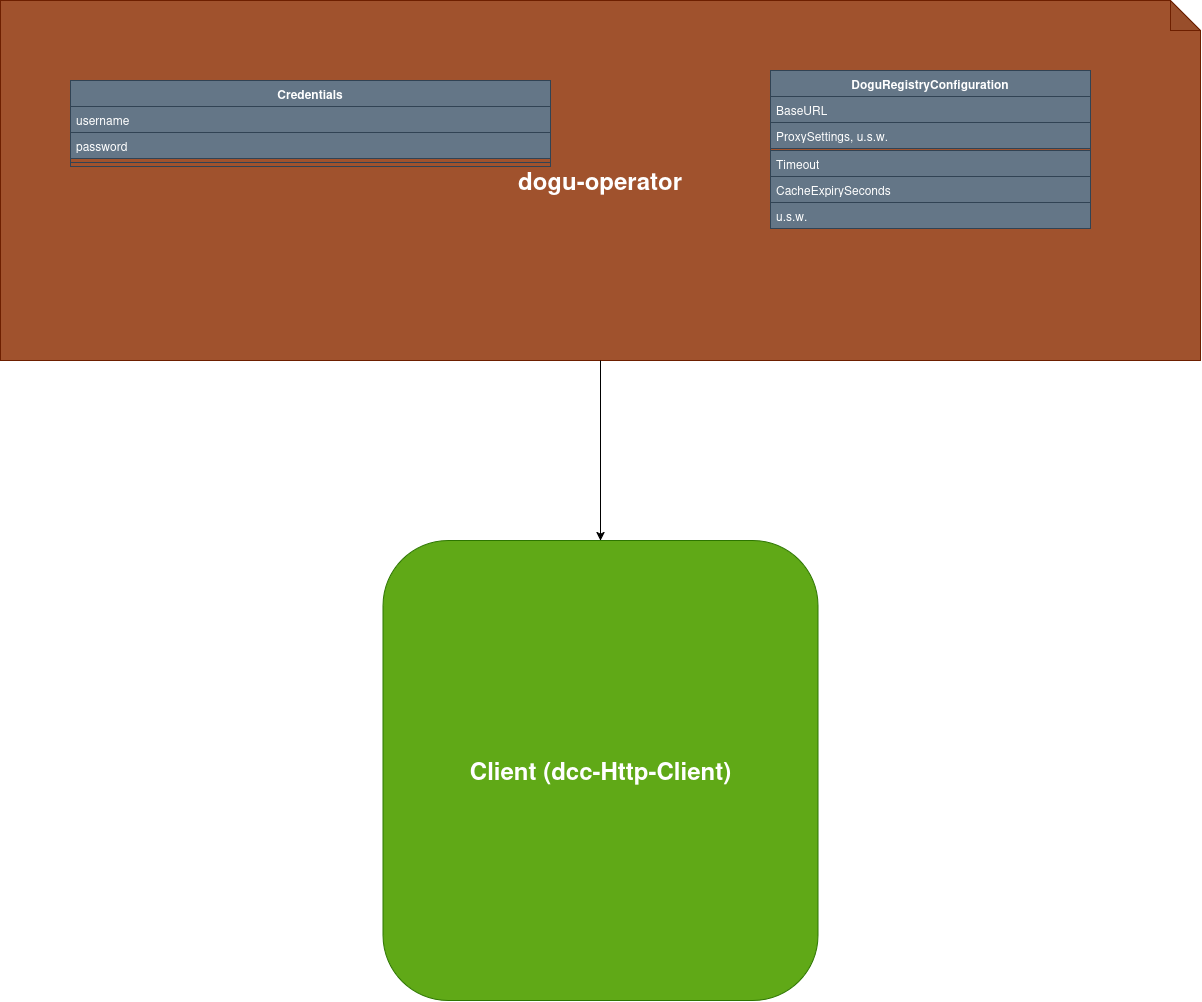
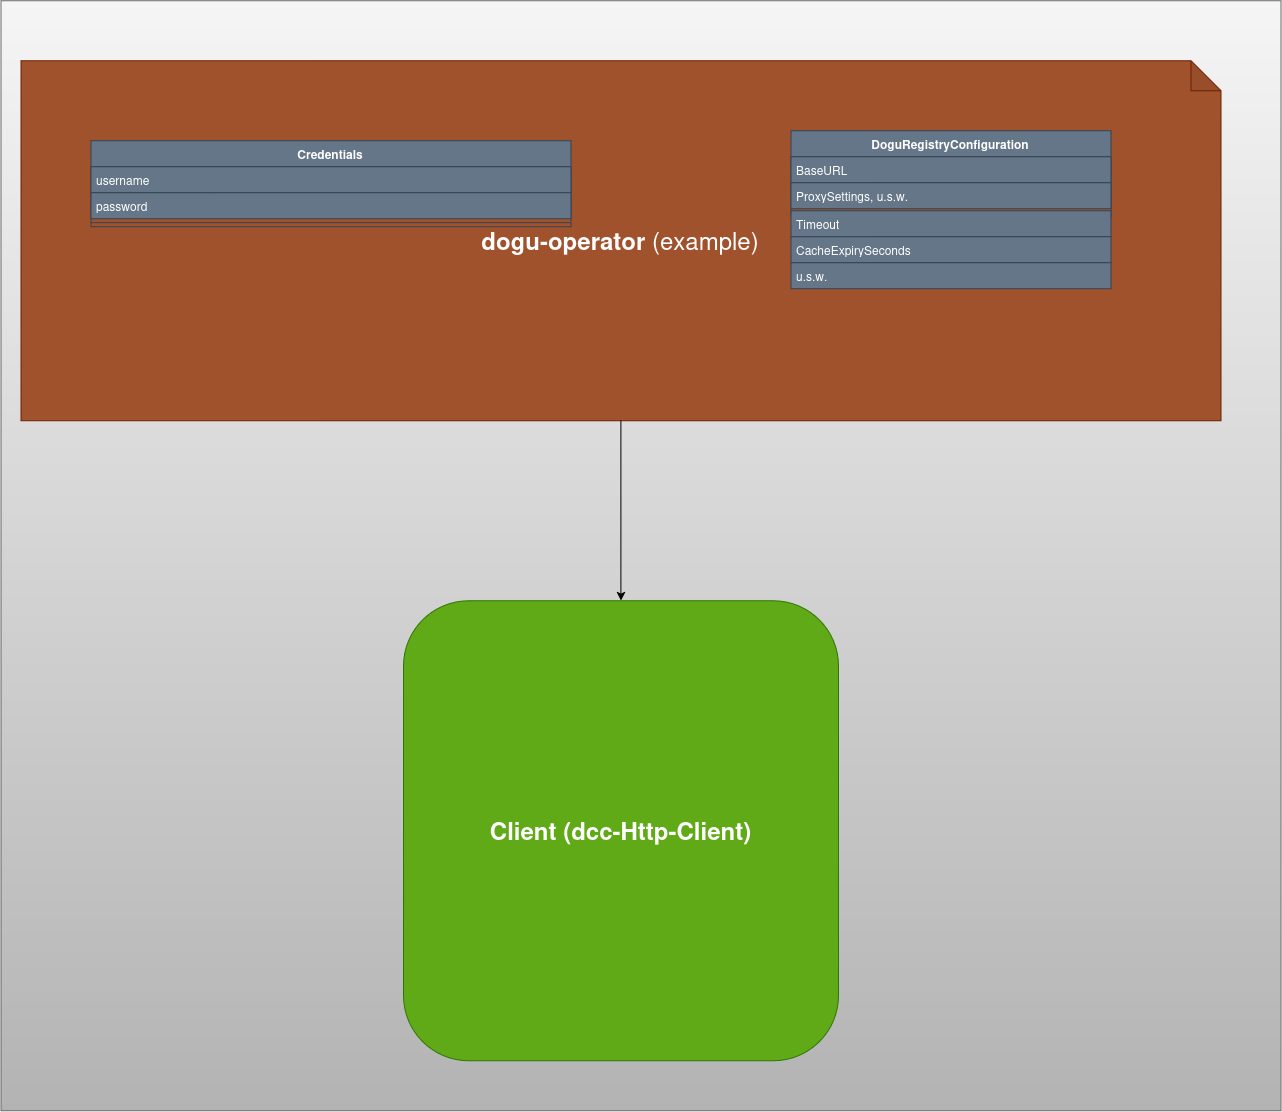
#7 Update use case diagram

diff --git a/docs/development/developers_guide_en.md b/docs/development/developers_guide_en.md
@@ -41,9 +41,9 @@ DoguRegistryConfiguration fields (config.DoguRegistryConfiguration):
 
 
 ## Usecases and configuration
-    ![](img/Dogu-Registry-Client-Usecases.png)
-    ![](img/Passing-Configurations.png)
 
+![](img/dogu-registry-client-usecases.png)
+![](img/passing-configurations.png)
 
 ## Error handling (clienterrors)
 
